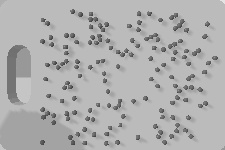
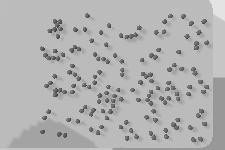
buggy code still

diff --git a/simulate_task.py b/simulate_task.py
@@ -44,8 +44,8 @@ with pb_utils.LockRenderer():
                         0.000000, 0.000000, 0.000000, 1.000000], useFixedBase=True, globalScaling=1)
     pb_utils.set_dynamics(franka, 8, linearDamping=0, lateralFriction=1)
     pb_utils.set_dynamics(franka, 9, linearDamping=0, lateralFriction=1)
-    cutting_board = p.loadURDF("./URDFs/Chopping Board/urdf/Chopping Board.urdf", basePosition=[
-                     0.000000, 0.000000, 0.025], baseOrientation=[0.000000, 0.000000, 0.000000, 1.000000], useFixedBase=True)
+    cutting_board = p.loadURDF("./URDFs/Assem4/urdf/Assem4.urdf", basePosition=[
+                     0.000000+BOARD_DIMS[0]/2, 0.000000-BOARD_DIMS[1]/2, 0.00], baseOrientation=[0.000000, 0.000000, 0.000000, 1.000000], useFixedBase=True)
     xs, ys = np.random.choice(np.linspace(-0.28/2, 0.38/2, 2000), N_PARTICLES,
                               replace=False), np.random.choice(np.linspace(-0.25/2, 0.25/2, 2000), N_PARTICLES, replace=False)
     for i in range(N_PARTICLES):
@@ -77,7 +77,7 @@ def initialize_robot_arm(robot, board):
     go_to_position(robot, board_pos)
 
 # def sweep_over_chopping_board(robot, x, y, theta, l, z = 0.0535):
-def sweep_over_chopping_board(robot, y,x, theta, y1, x1, z = 0.0535):
+def sweep_over_chopping_board(robot, x, y, theta, x1, y1, z = 0.0535):
     go_to_position(robot, [x,y,0.1], FIXED_ROTATION)
     time.sleep(0.5)
     ori = rotate_gripper(robot, [x,y,0.1], theta+np.pi/2)
@@ -91,7 +91,7 @@ def sweep_over_chopping_board(robot, y,x, theta, y1, x1, z = 0.0535):
 
 def get_outta_the_way(robot, board):
     board_pos = helper.get_obj_com_position(board)
-    board_pos[2] += 0.1
+    board_pos[2] += 0.2
     board_pos[:2] -= BOARD_DIMS/2
     go_to_position(robot, board_pos)
 
@@ -151,6 +151,7 @@ if __name__=="__main__":
                             best_board = board
                             best_lyp_score = lyp_score
                             best_params_temp = [x1, y1, theta, move_distance]
+                            theta *= -1
                             best_params = [x,y, theta, x+0.095*np.cos(theta), y+0.095*np.sin(theta)]
         print(best_lyp_score, curr_lyp_score)
         if best_lyp_score >= curr_lyp_score or iteration >= 40:
@@ -165,7 +166,7 @@ if __name__=="__main__":
         # initialize_robot_arm(franka, cutting_board)
         # time.sleep(0.5)
         print("HAKUNA2", best_params)
-        sweep_over_chopping_board(franka, *best_params, z = 0.052)
+        sweep_over_chopping_board(franka, *best_params, z = 0.051)
         # Take arm out of sight and click picture
         get_outta_the_way(franka, cutting_board)
         imgs = p.getCameraImage(width=helper.WIDTH,height=helper.HEIGHT,viewMatrix=VIEWMATRIX,projectionMatrix=PROJECTIONMATRIX, renderer=p.ER_BULLET_HARDWARE_OPENGL)

diff --git a/robot_helper.py b/robot_helper.py
@@ -140,14 +140,14 @@ def get_board(img, iteration):
     img = img[35:185, ]
     cv2.imwrite(f'./data/output/img_{iteration}.jpg', img)
     img = cv2.resize(img, (96,64), interpolation = cv2.INTER_AREA)
-    img = img[:,10:]
+    # img = img[:,10:]
     _, out = cv2.threshold(img,110,255,cv2.THRESH_BINARY_INV)
     out = cv2.morphologyEx(out, cv2.MORPH_CLOSE, KERNEL)
     return out
 
 def mtr_to_pix(x,y):
-    x = int((x + 0.304)*105.26315)
-    y = int((y + 0.381)*112.86089)
+    y = int((y + 0.304)*105.26315)
+    x = int((x + 0.381)*125.98425)
     return x,y
 
 class ObjectCentricTransport:
